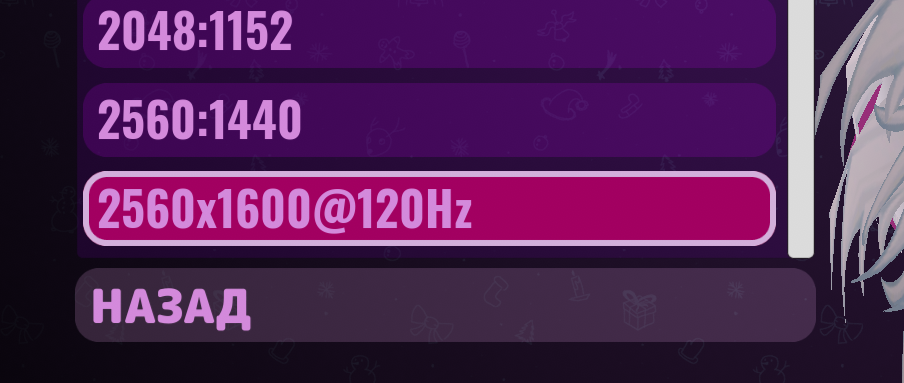
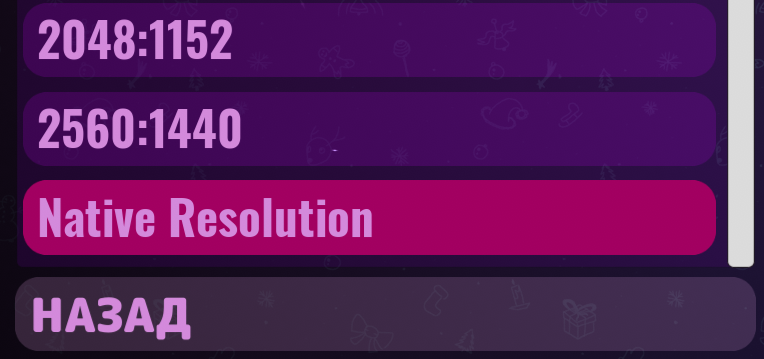
fix: some fixes and improvements

diff --git a/NativeResolutionOption.cs b/NativeResolutionOption.cs
@@ -42,7 +42,7 @@ public static class NativeResolutionOption
             }
             catch (Exception e)
             {
-                ModCore.LogError(e);
+                ModCore.LogError(e.Message);
             }
         }
 
@@ -59,10 +59,11 @@ public static class NativeResolutionOption
             }
 
             Resolution resolution = GetNativeResolution();
-            string buttonText =
-                $"{resolution.width}x{resolution.height}@{resolution.refreshRate}Hz";
+            string buttonText = "Native Resolution";
 
-            ModCore.Log($"Native resolution: {buttonText}");
+            ModCore.Log(
+                $"Native resolution: {resolution.width}x{resolution.height}@{resolution.refreshRate}Hz"
+            );
 
             foreach (var buttonInfo in menuCaseOption.scrIccb)
             {
@@ -73,15 +74,14 @@ public static class NativeResolutionOption
                 }
             }
 
+            int index = menuCaseOption.resolutions.IndexOf(resolution);
+            index = index >= 0 ? index : menuCaseOption.resolutions.Count - 1;
             var newButtonInfo = new Interface_ChangeScreenButton_Class_ButtonInfo()
             {
                 buttonText = buttonText,
+                value_int = index,
             };
-
-            int index = menuCaseOption.resolutions.IndexOf(resolution);
-            newButtonInfo.value_int = index >= 0 ? index : menuCaseOption.resolutions.Count - 1;
-
-            menuCaseOption.scrIccb?.Add(newButtonInfo);
+            menuCaseOption.scrIccb.Add(newButtonInfo);
 
             ModCore.Log("Option successfully added");
         }
@@ -104,4 +104,6 @@ public static class NativeResolutionOption
             };
         }
     }
+
+
 }

diff --git a/Properties/BuildInfo.cs b/Properties/BuildInfo.cs
@@ -6,7 +6,7 @@ internal static class BuildInfo
     public const string DESCRIPTION = "Add native resolution option to the game";
     public const string AUTHOR = "MrS4g0";
     public const string COMPANY = null;
-    public const string VERSION = "1.0.3";
+    public const string VERSION = "1.0.4";
     public const string GAMEVERSION = null;
     public const string DOWNLOADLINK = "https://github.com/MrSago/MiSide-Native-Resolution-Option";
     public const string PACKAGE = "com.miside.nativeresolutionoption";

diff --git a/README.md b/README.md
@@ -1,35 +1,14 @@
 # MiSide-Native-Resolution-Option
 
+## Already included in [KappiMod](https://github.com/MrSago/MiSide-KappiMod)
+
 ## Preview
 
 ![1](./img/preview.png)
 
-## Описание мода
-
-Добавляет опцию в настройках с нативным разрешением, то есть с маскимальным разрешением монитора и максимальной частотой. Найти опцию можно с подписью в конце с частотой монитора (см. раздел Preview).
-
-## Установка мода
-
-- Установить один из поддерживаемых загрузчиков **(я рекомендую поставить BepInEx)**:
-
-  - [BepInEx](https://github.com/BepInEx/BepInEx/releases)
-    - Нам нужен **BepInEx-Unity.IL2CPP-win-x64-6.x.x** (6-ая версия)
-    - Распакуйте содержимое архива в папку с игрой
-  - [MelonLoader](https://github.com/LavaGang/MelonLoader/releases)
-    - Просто используйте **установщик** последней версии
-
-- Скачать [последнюю версию мода](https://github.com/MrSago/MiSide-Native-Resolution-Option/releases/latest) **под нужный загрузчик:**
-
-  - NativeResolutionOption.BepInEx.zip - для BepInEx
-  - NativeResolutionOption.MelonLoader.zip - для MelonLoader
-
-- Извлечь файлы из архива в папку с игрой
-
-- Веселитесь
-
 ## Mod description
 
-Adds an option in the settings with native resolution, that is, with the maximum monitor resolution and maximum frequency. You can find the option with a text at the end with the monitor frequency (see the Preview section).
+Adds an option in the settings with native resolution, that is, with the maximum monitor resolution and maximum frequency. You can find the option in the resolution list with the name "Native Resolution" (see the Preview section).
 
 ## Mod installation
 
@@ -49,3 +28,26 @@ Adds an option in the settings with native resolution, that is, with the maximum
 - Extract files from the archive into the game folder
 
 - Have fun
+
+## Описание мода
+
+Добавляет опцию в настройках с нативным разрешением, то есть с маскимальным разрешением монитора и максимальной частотой. Найти опцию можно в списке разрешений с названием "Native Resolution" (см. раздел Preview).
+
+## Установка мода
+
+- Установить один из поддерживаемых загрузчиков **(я рекомендую поставить BepInEx)**:
+
+  - [BepInEx](https://github.com/BepInEx/BepInEx/releases)
+    - Нам нужен **BepInEx-Unity.IL2CPP-win-x64-6.x.x** (6-ая версия)
+    - Распакуйте содержимое архива в папку с игрой
+  - [MelonLoader](https://github.com/LavaGang/MelonLoader/releases)
+    - Просто используйте **установщик** последней версии
+
+- Скачать [последнюю версию мода](https://github.com/MrSago/MiSide-Native-Resolution-Option/releases/latest) **под нужный загрузчик:**
+
+  - NativeResolutionOption.BepInEx.zip - для BepInEx
+  - NativeResolutionOption.MelonLoader.zip - для MelonLoader
+
+- Извлечь файлы из архива в папку с игрой
+
+- Веселитесь
